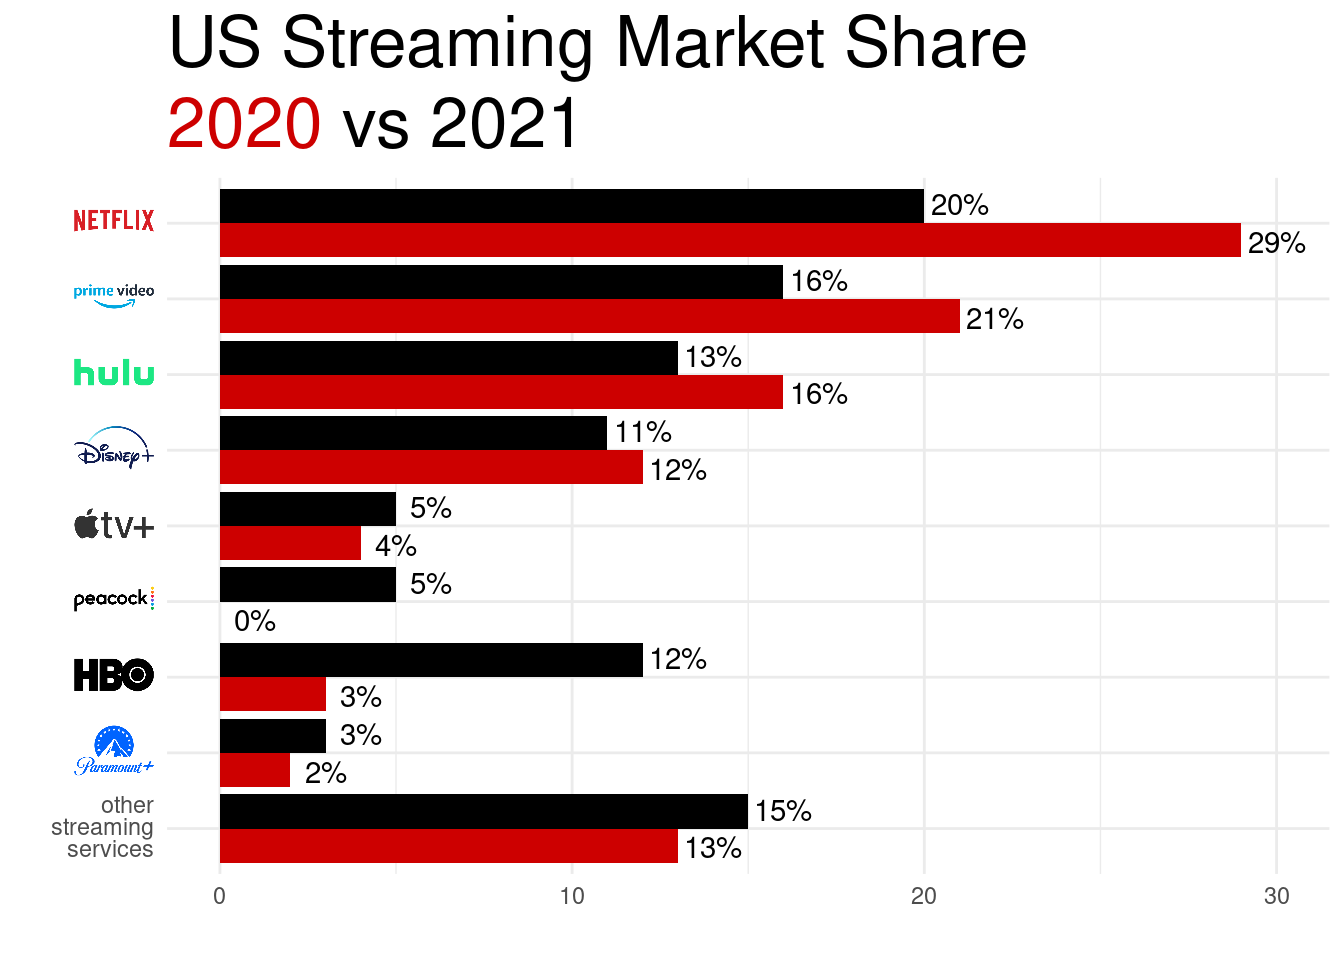
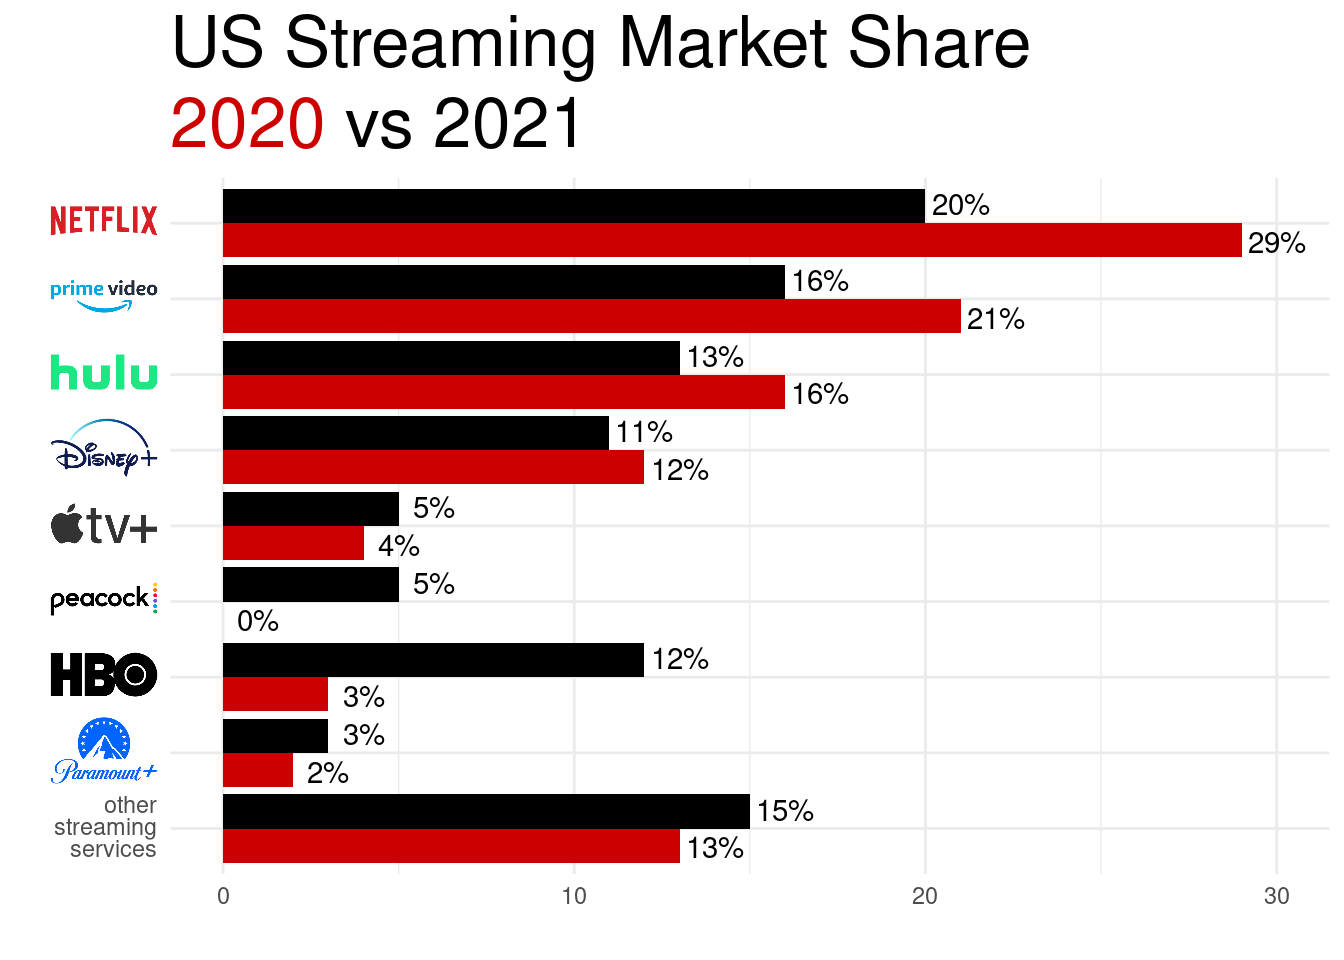
minor edits

diff --git a/content/post/2021-04-25-improving-a-visualization/index.html b/content/post/2021-04-25-improving-a-visualization/index.html
@@ -67,7 +67,7 @@ That’s fairly close. For the logos I’ll use the versions on Wikipedia</p>
   &quot;paramount&quot;, &quot;https://upload.wikimedia.org/wikipedia/commons/thumb/a/a5/Paramount_Plus.svg/440px-Paramount_Plus.svg.png&quot;,
   &quot;other&quot;, &quot;other&quot;
 )
-labels &lt;- setNames(paste0(&quot;&lt;img src=&#39;&quot;, logos$logo, &quot;&#39; width=&#39;30&#39; /&gt;&quot;), logos$service)
+labels &lt;- setNames(paste0(&quot;&lt;img src=&#39;&quot;, logos$logo, &quot;&#39; width=&#39;40&#39; /&gt;&quot;), logos$service)
 labels[[&quot;other&quot;]] &lt;- &quot;other&lt;br /&gt;streaming&lt;br /&gt;services&quot;</code></pre>
 <p>and leverage <code>{ggtext}</code> to set these as the axis labels</p>
 <pre class="r"><code>p &lt;- p + scale_x_discrete(labels = labels) + theme(axis.text.x = ggtext::element_markdown())
@@ -103,8 +103,16 @@ p &lt;- ggplot(streaming_delta) +
 p</code></pre>
 <p><img src="staticunnamed-chunk-7-1.png" width="100%" />
 Each comparison in the original required two bars, and the separation between the services didn’t make that easy to read. In this version,
-the absolute scale is lost (services starting high and decreasing aren’t distinct from those starting low and gaining slightly) so what about
-using a barbell plot to show the separation between the two values rather than relying on comparing two bars?</p>
+the absolute scale is lost (services starting high and decreasing aren’t so distinct from those starting low and gaining slightly)
+so what about using a barbell plot to show the separation between the two values rather than relying on comparing two bars?</p>
+<pre class="r"><code>suppressWarnings(library(ggalt, include.only = &quot;geom_dumbbell&quot;, quietly = TRUE))</code></pre>
+<pre class="bg-info text-info"><code>## Registered S3 methods overwritten by &#39;ggalt&#39;:
+##   method                  from   
+##   grid.draw.absoluteGrob  ggplot2
+##   grobHeight.absoluteGrob ggplot2
+##   grobWidth.absoluteGrob  ggplot2
+##   grobX.absoluteGrob      ggplot2
+##   grobY.absoluteGrob      ggplot2</code></pre>
 <pre class="r"><code>p &lt;- ggplot(streaming) + 
   ggalt::geom_dumbbell(aes(factor(service, levels = rev(streaming$service)), 
                            x = share2020, xend = share2021), 
@@ -116,19 +124,13 @@ using a barbell plot to show the separation between the two values rather than r
   labs(subtitle = &quot;&lt;span style = &#39;color: red3;&#39;&gt;2020&lt;/span&gt; vs 2021&quot;) + 
   theme_minimal() +
   theme(plot.title = element_text(size = 26), plot.subtitle = element_text(size = 26)) +
-  theme(axis.text.y = ggtext::element_markdown(), plot.subtitle = ggtext::element_markdown(), legend.position = &quot;none&quot;) </code></pre>
-<pre class="bg-info text-info"><code>## Registered S3 methods overwritten by &#39;ggalt&#39;:
-##   method                  from   
-##   grid.draw.absoluteGrob  ggplot2
-##   grobHeight.absoluteGrob ggplot2
-##   grobWidth.absoluteGrob  ggplot2
-##   grobX.absoluteGrob      ggplot2
-##   grobY.absoluteGrob      ggplot2</code></pre>
-<pre class="r"><code>p</code></pre>
+  theme(axis.text.y = ggtext::element_markdown(), plot.subtitle = ggtext::element_markdown(), legend.position = &quot;none&quot;) 
+p</code></pre>
 <pre class="bg-warning text-warning"><code>## Warning: Use of `streaming$service` is discouraged. Use `service` instead.</code></pre>
 <p><img src="staticunnamed-chunk-8-1.png" width="100%" />
 I think these last two communicate more than the original. It’s always amazing how easy it is to bring this data into R and
 start playing with different presentations.</p>
+Do you have a better way to present this data? Let me know in the comments or on <a href="https://twitter.com/carroll_jono">Twitter</a>.
 <br />
 <details>
 <summary>
@@ -169,7 +171,7 @@ start playing with different presentations.</p>
 ##  farver         2.0.3    2020-01-16 [1] CRAN (R 4.0.3)
 ##  fs             1.5.0    2020-07-31 [1] CRAN (R 4.0.3)
 ##  generics       0.1.0    2020-10-31 [1] CRAN (R 4.0.3)
-##  ggalt          0.4.0    2017-02-15 [1] CRAN (R 4.0.3)
+##  ggalt        * 0.4.0    2017-02-15 [1] CRAN (R 4.0.3)
 ##  ggplot2      * 3.3.3    2020-12-30 [1] CRAN (R 4.0.3)
 ##  ggtext         0.1.1    2020-12-17 [1] CRAN (R 4.0.3)
 ##  glue           1.4.2    2020-08-27 [1] CRAN (R 4.0.3)
